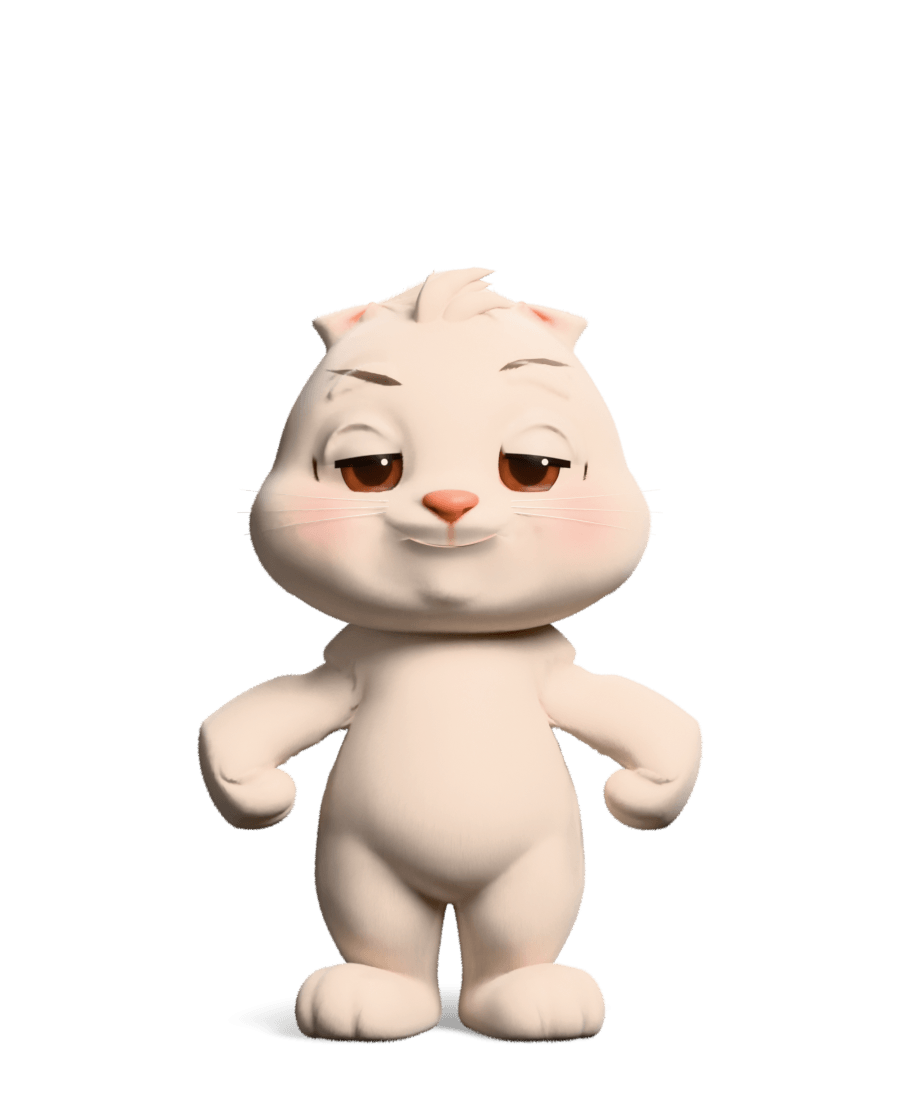
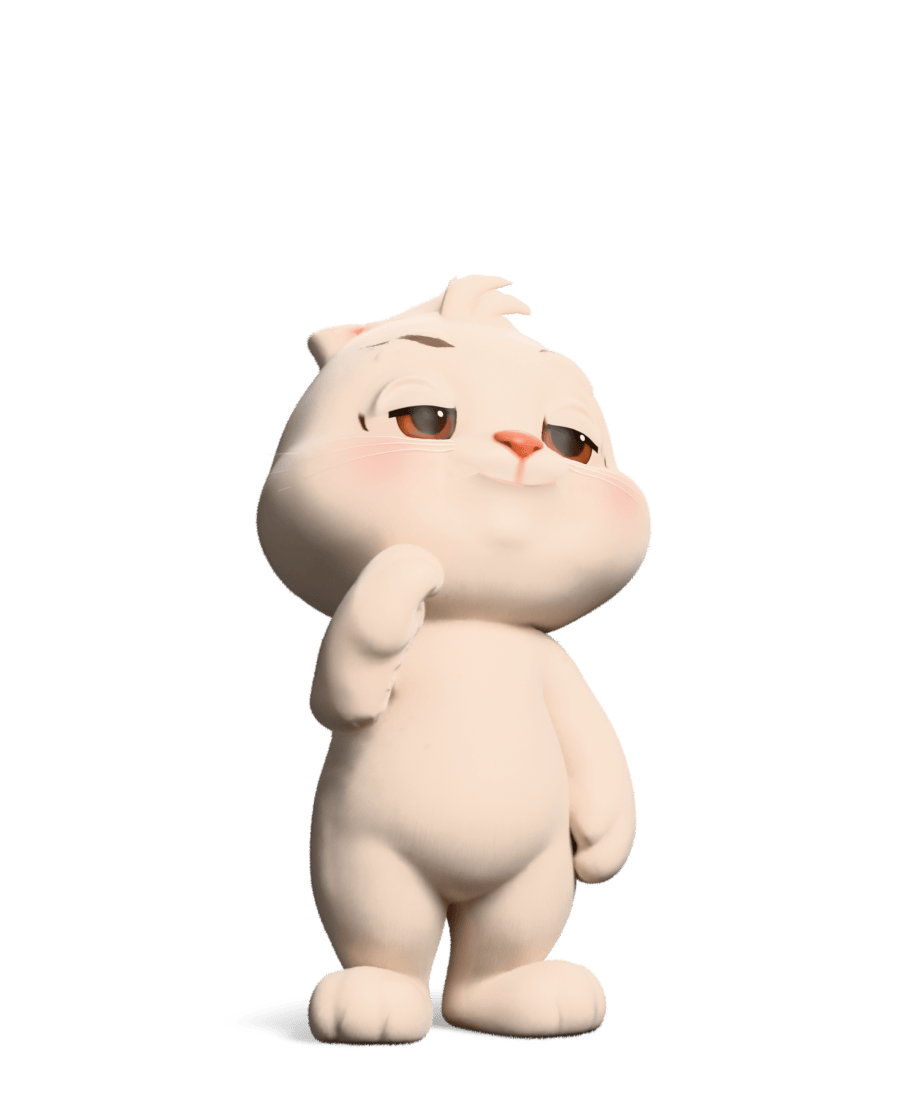
Rabi'yi Giydir: uzun tepeli taç, Sigma'da jawline duruşu
- Taç tepeleri yükseldi.
- Sigma: kameraya hafif dönük, sağ el çene hattının altında, baş yukarıda;
  "eller belde" eli bozuk gösteriyordu. Duruş değiştiği için Sigma
  `durus: true`: öbür eşyalar <id>-sigma.png katmanını kullanır
  (durusGorseli, tumDurusGorselleri).

Changed region(s): [[0.2178, 0.2473, 0.7778, 0.9582], [0.6533, 0.4945, 0.7156, 0.5564], [0.56, 0.7727, 0.5911, 0.8036]]

diff --git a/lib/giydir.ts b/lib/giydir.ts
@@ -33,6 +33,12 @@ export type Esya = {
    * `rabi-sigma-kep.png` (`tabanYolu`). Eşya katmanı da bu Rabi'ye göre çizildi.
    */
   taban?: string
+  /**
+   * Taban duruşu da değiştiriyor (Sigma: kameraya hafif dönük, eli çenede). O zaman
+   * öbür eşyalar başka yerde durur; her birinin o duruşa göre çizilmiş katmanı
+   * `<id>-<taban>.png` kullanılır (`kep-sigma.png`).
+   */
+  durus?: boolean
 }
 
 /** Yuva → giyilen eşya. Her yuvada en çok bir eşya: aynı yere iki şapka olmaz. */
@@ -70,7 +76,16 @@ export const ESYALAR: readonly Esya[] = [
   // Sigma paketi (kullanıcı istedi, 2026-10-31): katman altın zincir + "R" kolye;
   // yarı kapalı gözler, çatık/kalkık kaş, sırıtış ve eller belde duruş tabanda.
   // Zincir boyunda olduğu için papyon ve atkıyla aynı yuvada.
-  { id: 'sigma', ad: 'Sigma Rabi', yuva: 'boyun', gorsel: '/giydir/sigma.png', ikon: '/giydir/sigma-ikon.png', fiyat: 0, taban: 'sigma' },
+  {
+    id: 'sigma',
+    ad: 'Sigma Rabi',
+    yuva: 'boyun',
+    gorsel: '/giydir/sigma.png',
+    ikon: '/giydir/sigma-ikon.png',
+    fiyat: 0,
+    taban: 'sigma',
+    durus: true,
+  },
 ]
 
 /**
@@ -157,7 +172,20 @@ export function katmanlar(giyilenler: Giyilenler): string[] {
     return esya && esya.yuva === yuva ? [esya] : []
   })
   const ekler = giyili.flatMap((e) => (e.taban ? [e.taban] : []))
-  return [tabanYolu(ekler), ...giyili.map((e) => e.gorsel)]
+  const durus = giyili.find((e) => e.durus)
+  return [tabanYolu(ekler), ...giyili.map((e) => (durus && e !== durus ? durusGorseli(e, durus) : e.gorsel))]
+}
+
+/** Duruş değiştiren eşya giyiliyken öbür eşyanın o duruşa göre çizilmiş katmanı. */
+export function durusGorseli(esya: Esya, durus: Esya): string {
+  return esya.gorsel.replace(/\.png$/, `-${durus.taban}.png`)
+}
+
+/** Duruş değiştiren eşyalarla birlikte giyilebilecek eşyaların bütün duruş katmanları (ön yükleme). */
+export function tumDurusGorselleri(): string[] {
+  return ESYALAR.filter((d) => d.durus).flatMap((d) =>
+    ESYALAR.filter((e) => e.yuva !== d.yuva).map((e) => durusGorseli(e, d)),
+  )
 }
 
 /**

diff --git a/lib/giydir.test.ts b/lib/giydir.test.ts
@@ -9,6 +9,7 @@ import {
   giyilenleriCoz,
   katmanlar,
   tabanYolu,
+  tumDurusGorselleri,
   tumTabanlar,
   type Giyilenler,
 } from './giydir'
@@ -88,10 +89,27 @@ describe('katmanlar', () => {
     expect(katmanlar({ kafa: 'kulaklik' })).toEqual([CIPLAK_RABI, '/giydir/kulaklik.png'])
   })
 
-  it('Sigma tabanı yüzü ve duruşu değiştirir; şapkayla birlikte iki ek birleşir', () => {
+  it('Sigma tabanı yüzü ve duruşu değiştirir; öbür eşyalar Sigma duruşundaki katmanına geçer', () => {
     expect(katmanlar({ boyun: 'sigma' })).toEqual(['/giydir/rabi-sigma.png', '/giydir/sigma.png'])
-    expect(katmanlar({ boyun: 'sigma', kafa: 'kep' })).toEqual(['/giydir/rabi-sigma-kep.png', '/giydir/sigma.png', '/giydir/kep.png'])
-    expect(katmanlar({ boyun: 'sigma', kafa: 'bere' })[0]).toBe('/giydir/rabi-sigma-bere.png')
+    expect(katmanlar({ boyun: 'sigma', kafa: 'kep', yuz: 'gunes' })).toEqual([
+      '/giydir/rabi-sigma-kep.png',
+      '/giydir/sigma.png',
+      '/giydir/gunes-sigma.png',
+      '/giydir/kep-sigma.png',
+    ])
+    expect(katmanlar({ boyun: 'sigma', kafa: 'bere' })).toEqual([
+      '/giydir/rabi-sigma-bere.png',
+      '/giydir/sigma.png',
+      '/giydir/bere-sigma.png',
+    ])
+    // Sigma çıkınca katmanlar düz duruşa döner
+    expect(katmanlar({ kafa: 'bere' })).toEqual(['/giydir/rabi-bere.png', '/giydir/bere.png'])
+  })
+
+  it('Sigma duruş katmanları: boyun dışındaki her eşya için bir tane', () => {
+    expect(tumDurusGorselleri().sort()).toEqual(
+      ['kep', 'bere', 'tac', 'kulaklik', 'gunes'].map((id) => `/giydir/${id}-sigma.png`).sort(),
+    )
   })
 
   it('taban dosyaları: çıplak, tek ekli ve birleşik hâlleri', () => {

diff --git a/components/ekranlar/rabi-giydir.tsx b/components/ekranlar/rabi-giydir.tsx
@@ -9,6 +9,7 @@ import {
   dokun,
   giyiliMi,
   katmanlar,
+  tumDurusGorselleri,
   tumTabanlar,
   type Esya,
   type Giyilenler,
@@ -90,7 +91,7 @@ export function RabiGiydirEkrani({
 function useGorselleriOnYukle(): boolean {
   const [hazir, setHazir] = useState(false)
   useEffect(() => {
-    const dosyalar = [...tumTabanlar(), ...ESYALAR.map((e) => e.gorsel)]
+    const dosyalar = [...tumTabanlar(), ...ESYALAR.map((e) => e.gorsel), ...tumDurusGorselleri()]
     let kalan = dosyalar.length
     let iptal = false
     const bitti = () => {

diff --git a/docs/kurallar/maskot-ve-ikon.md b/docs/kurallar/maskot-ve-ikon.md
@@ -135,9 +135,9 @@ Rabi proje kurallarının bir parçası — dizin ve genel kurallar: [AGENTS.md]
     duruyordu. Katlanmış fitilli ağız kafaya yapışık bant (simit kenar siper gibiydi),
     kabarık ponpon. Bere ve kep katmanında perçem gizlenir.
   - Taç: büyük halka kafanın tepesine oturur, kulaklar **içinden** çıkar (kullanıcı
-    istedi); kulaklar biraz içe toplanıp incelir (`TAC_KULAK`).
-  - Taban ekli eşya her eklendiğinde Sigma birleşimi de çizilir
-    (`katman_sigma_ek.py`: `rabi-sigma-bere.png`, `rabi-sigma-tac.png`).
+    istedi); kulaklar biraz içe toplanıp incelir (`TAC_KULAK`). Tepeler uzun (kısa
+    tepeli taç tasma gibiydi).
+  - Taban ekli eşya her eklendiğinde Sigma birleşimi de çizilir (`katman_sigma2.py`).
 - **Sigma Rabi** (kullanıcı istedi, 2026-10-31): boyun yuvası; katmanı altın Kuba
   zinciri + "R" kolye (`sigma.png`), yüz ve duruş tabanda (`taban: 'sigma'`).
   Gözler ve kaşlar renk dokusuna boyalı (önden düz yansıtma, `rest_pos` x/z →
@@ -145,10 +145,15 @@ Rabi proje kurallarının bir parçası — dizin ve genel kurallar: [AGENTS.md]
   kapak, kirpik çizgisi, sol kaş çatık, sağ kalkık). Doku pikselleri **yerinde**
   değiştirilir: tüyler de aynı dokudan renk alıyor, yalnız yüz malzemesinde
   değiştirince kaş tüyün altında eski hâliyle kalıyordu. Ağız: `X` (kapalı) +
-  `gulumse` yalnız sağ yarıda (sırıtış). Duruş: eller belde (`sigma_poz.py`).
-  Taban ekleri birleşir: kep + Sigma = `rabi-sigma-kep.png` (`tabanYolu`,
-  `tumTabanlar`); yeni taban ekli eşya gelirse bütün birleşimleri çiz. Kaynak
-  `rabi_sigma.blend`, katmanlar `katman_sigma.py`.
+  `gulumse` yalnız sağ yarıda (sırıtış). Duruş (kullanıcı istedi, 2026-10-31):
+  kameraya hafif dönük (kök +18°), sağ el çene hattının altında ("jawline"), baş
+  22° yukarı; "eller belde" eli bozuk gösterdiği için bırakıldı. El bükülebilsin diye
+  yalnız bu sahnede `bilek.R` kemiği var (`sigma_poz.py`: `cene_goster`, `bilek_ekle`).
+  Duruş değiştiği için Sigma `durus: true`: öbür eşyalar `<id>-sigma.png`
+  katmanını kullanır (`kep-sigma.png`…); yeni eşya eklenince onun Sigma katmanı da
+  çizilir. Taban ekleri birleşir: kep + Sigma = `rabi-sigma-kep.png` (`tabanYolu`,
+  `tumTabanlar`). Kaynak `rabi_sigma2.blend`, kurulum `sigma2_kur.py`, katmanlar
+  `katman_sigma2.py`.
 - **Gözlük ve bahçıvan botu yok** (kullanıcı kaldırttı, 2026-10-31: "sevmedim"); geri
   getirme. Kimlikleri (`gozluk`, `bot`) eski kayıtta kalabilir, `giyilenleriCoz` düşürür.
   Gözlük maddesindeki dersler güneş gözlüğü için de geçerli.
